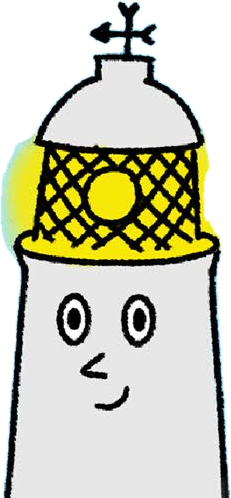
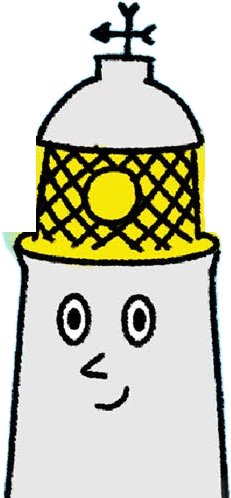
Clean up character cut-outs and blend the hero sea
Remove drawn water and wave strokes from Noah, Tom and Elsie and give
them filled, outlined hull bottoms; remove Sophie's stray glow. Replace
the flat sea strip with two drifting wave layers with painted foam
edges, so the boats sit in the water, and feather the story-section
wave into the night sea.

Claude-Session: https://claude.ai/code/session_01EnbbVsTM7jdJBid4MfAjtB

Changed region(s): [[0.0, 0.2711, 0.1818, 0.4819], [0.8788, 0.4217, 0.9394, 0.4819], [0.8788, 0.2711, 0.9091, 0.3614]]

diff --git a/index.html b/index.html
@@ -55,20 +55,20 @@ header.scrolled::before{opacity:1}
 /* ---------- hero ---------- */
 .hero{position:relative;margin-top:-92px;padding:130px 0 0;background:radial-gradient(ellipse 55% 45% at 82% 30%,rgba(255,251,214,.9),rgba(255,251,214,0) 70%),radial-gradient(ellipse 60% 50% at 10% 0%,rgba(255,255,255,.5),rgba(255,255,255,0) 70%),linear-gradient(#5fb8ee,#9fd8f6 45%,#cdeefc 80%);overflow:hidden}
 .hero-grid{display:grid;grid-template-columns:1.05fr 1fr;align-items:end;gap:24px;position:relative}
-.hero-copy{padding-bottom:150px;position:relative;z-index:3}
+.hero-copy{padding-bottom:235px;position:relative;z-index:6}
 .hero h1{font-size:clamp(2.5rem,6vw,4.6rem)}
 .hero h1 .small{display:block;font-size:.42em;letter-spacing:.06em;margin-bottom:.2em}
 .hero p.lede{font-size:1.2rem;max-width:30em;margin:1.2rem 0 1.8rem;color:#173b6d;font-weight:600}
 .hero .actions{display:flex;flex-wrap:wrap;gap:14px}
 .scene{position:relative;height:clamp(360px,44vw,560px)}
-.scene .lighthouse{position:absolute;right:4%;bottom:8%;height:88%;width:auto;z-index:1;filter:drop-shadow(0 8px 10px rgba(0,40,90,.25))}
+.scene .lighthouse{position:absolute;right:4%;bottom:21%;height:80%;width:auto;z-index:1;filter:drop-shadow(0 8px 10px rgba(0,40,90,.25))}
 .scene .beam{position:absolute;right:9%;top:16%;width:130%;height:120px;transform-origin:right center;background:radial-gradient(ellipse at right,rgba(255,250,200,.85),rgba(255,250,200,0) 70%);clip-path:polygon(100% 45%,0 0,0 100%,100% 55%);animation:sweep 7s ease-in-out infinite;z-index:1;mix-blend-mode:screen}
 @keyframes sweep{0%,100%{transform:rotate(-6deg)}50%{transform:rotate(10deg)}}
 .boat{position:absolute;z-index:3;filter:drop-shadow(0 6px 6px rgba(0,40,90,.2));animation:bob 4s ease-in-out infinite}
-.boat.tom{left:20%;bottom:16%;width:23%;animation-delay:-1s}
-.boat.noah{left:40%;bottom:9%;width:32%;animation-delay:-2.2s}
-.boat.oscar{left:-2%;bottom:7%;width:25%;animation-delay:-.4s}
-.boat.elsie{left:68%;bottom:3%;width:21%;animation-delay:-3s;z-index:4}
+.boat.tom{left:22%;bottom:25%;width:21%;animation-delay:-1s}
+.boat.noah{left:40%;bottom:16%;width:31%;animation-delay:-2.2s}
+.boat.oscar{left:-1%;bottom:15.5%;width:24%;animation-delay:-.4s}
+.boat.elsie{left:69%;bottom:13%;width:21%;animation-delay:-3s;z-index:4}
 @keyframes bob{0%,100%{transform:translateY(0) rotate(-2deg)}50%{transform:translateY(-10px) rotate(2deg)}}
 .gull{position:absolute;width:90px;top:120px;left:-120px;z-index:4;animation:fly 26s linear infinite}
 @keyframes fly{0%{transform:translate(0,0)}50%{transform:translate(60vw,-30px)}100%{transform:translate(120vw,10px)}}
@@ -76,8 +76,13 @@ header.scrolled::before{opacity:1}
 .cloud.c1{top:110px;left:46%;width:220px}
 .cloud.c2{top:190px;left:8%;width:160px;animation-duration:80s;opacity:.8}
 @keyframes drift{from{transform:translateX(0)}to{transform:translateX(-40vw)}}
-.hero .sea{position:absolute;left:0;right:0;bottom:0;height:150px;background:url(img/sea-strip.webp) center bottom/auto 150px repeat-x;z-index:2;pointer-events:none}
-.hero .sea::after{content:"";position:absolute;left:0;right:0;bottom:0;height:55px;background:linear-gradient(rgba(60,200,249,0),#3cc8f9)}
+.hero .sea{position:absolute;left:0;right:0;pointer-events:none;background-repeat:repeat-x}
+.hero .sea.back{bottom:40px;height:210px;background-image:url(img/sea-back.webp);background-size:2966px 210px;z-index:2;animation:tide 160s linear infinite}
+.hero .sea.front{bottom:0;height:112px;background-image:url(img/sea-front.webp);background-size:1582px 112px;z-index:5;animation:tide2 90s linear infinite}
+.hero .sea.front::after{content:"";position:absolute;left:0;right:0;bottom:0;height:60px;background:linear-gradient(rgba(60,200,249,0),#3cc8f9 90%)}
+.hero::after{content:"";position:absolute;left:0;right:0;bottom:180px;height:120px;z-index:1;pointer-events:none;background:linear-gradient(rgba(205,238,252,0),rgba(205,238,252,.9))}
+@keyframes tide{to{background-position-x:-2966px}}
+@keyframes tide2{to{background-position-x:1582px}}
 
 /* ---------- section scaffold ---------- */
 section{padding:90px 0;position:relative;overflow-x:clip}
@@ -109,13 +114,13 @@ section{padding:90px 0;position:relative;overflow-x:clip}
 
 /* ---------- story peek ---------- */
 .story{background:var(--night) url(img/night.webp) center/cover;color:#fff;padding:110px 0 130px;overflow:hidden}
-.story::before{content:"";position:absolute;inset:0;background:linear-gradient(#183f8e,rgba(24,63,142,0) 22%,rgba(24,63,142,0) 78%,#1d5fc0),linear-gradient(90deg,rgba(10,30,90,.55),rgba(10,30,90,0) 60%)}
+.story::before{content:"";position:absolute;inset:0;background:linear-gradient(#183f8e,rgba(24,63,142,0) 26%,rgba(24,63,142,0) 68%,#1d5fc0),linear-gradient(90deg,rgba(10,30,90,.55),rgba(10,30,90,0) 60%)}
 .story .wrap{position:relative;display:grid;grid-template-columns:1fr 1fr;gap:40px;align-items:center}
 .story .bookbox{color:var(--text);font-size:1.15rem}
 .story .bookbox p{margin:0 0 .8em}
 .story h2{font-size:clamp(2rem,4vw,3rem);margin-bottom:22px;text-shadow:0 3px 12px rgba(0,0,0,.4)}
 .story .eyebrow{color:var(--oscar)}
-.story .wave{width:100%;max-width:520px;margin-left:auto;animation:rock 5s ease-in-out infinite;transform-origin:30% 100%;filter:drop-shadow(0 20px 30px rgba(0,0,0,.35))}
+.story .wave{width:100%;max-width:540px;margin-left:auto;animation:rock 5s ease-in-out infinite;transform-origin:30% 100%;-webkit-mask-image:linear-gradient(to bottom,#000 62%,transparent 96%),linear-gradient(to right,transparent 0,#000 22%);-webkit-mask-composite:source-in;mask-image:linear-gradient(to bottom,#000 62%,transparent 96%),linear-gradient(to right,transparent 0,#000 22%);mask-composite:intersect}
 @keyframes rock{0%,100%{transform:rotate(-2deg)}50%{transform:rotate(2deg)}}
 .boom{font-family:"Short Stack",cursive;color:var(--noah);font-size:1.3em}
 
@@ -204,8 +209,11 @@ footer a{color:#fff}
   .trade img{width:110px}
   .card{padding:26px 22px}
   .card.soon .peekers img{height:110px}.card.soon .peekers img:nth-child(2){height:84px}
-  .scene .lighthouse{height:78%;bottom:24%;right:0}
-  .boat.noah{width:40%;left:34%}.boat.tom{width:28%}.boat.oscar{width:32%}.boat.elsie{width:26%;left:72%}
+  .scene .lighthouse{height:74%;bottom:30%;right:0}
+  .hero .sea.back{height:150px;background-size:2119px 150px;bottom:28px}
+  .hero .sea.front{height:92px;background-size:1300px 92px}
+  .hero::after{bottom:120px}
+  .boat.noah{width:40%;left:33%;bottom:19%}.boat.tom{width:24%;left:18%;bottom:28%}.boat.oscar{width:31%;bottom:17%}.boat.elsie{width:25%;left:73%;bottom:17%}
   .review-grid{grid-template-columns:1fr}
   .cast-grid{grid-template-columns:1fr 1fr;gap:36px 14px}
   .char h3{font-size:1.4rem}
@@ -261,7 +269,8 @@ footer a{color:#fff}
       <img class="boat elsie" src="img/elsie.webp" alt="Elsie the little boat">
     </div>
   </div>
-  <div class="sea" aria-hidden="true"></div>
+  <div class="sea back" aria-hidden="true"></div>
+  <div class="sea front" aria-hidden="true"></div>
 </section>
 
 <!-- BOOKS -->
